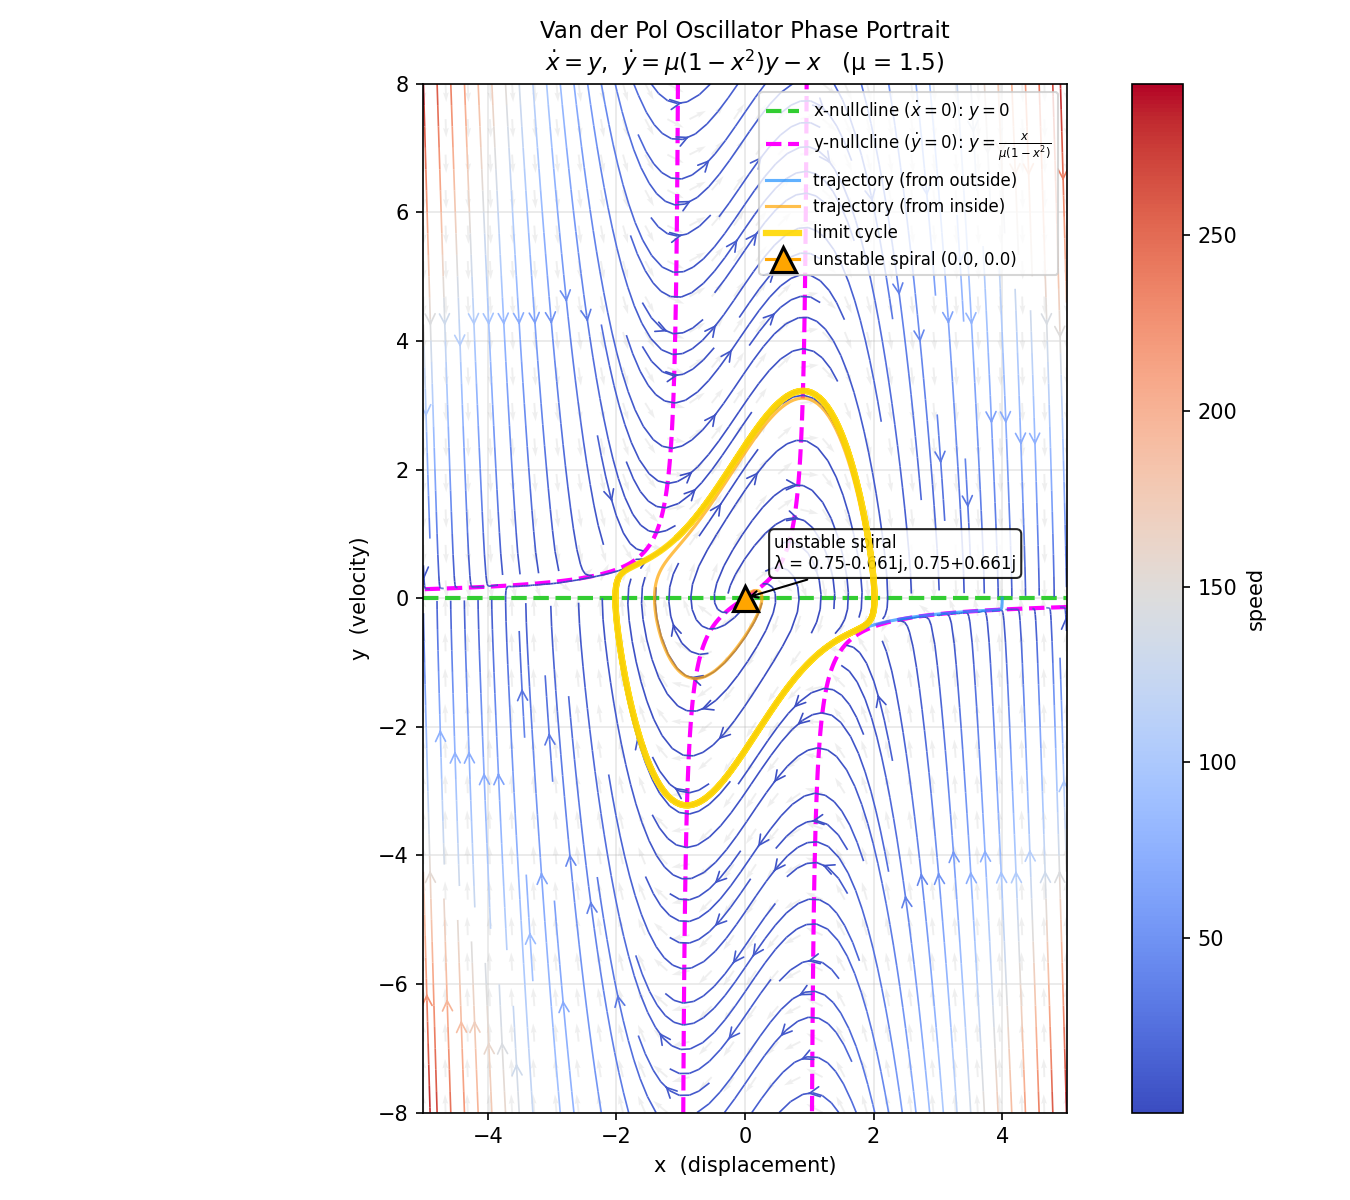
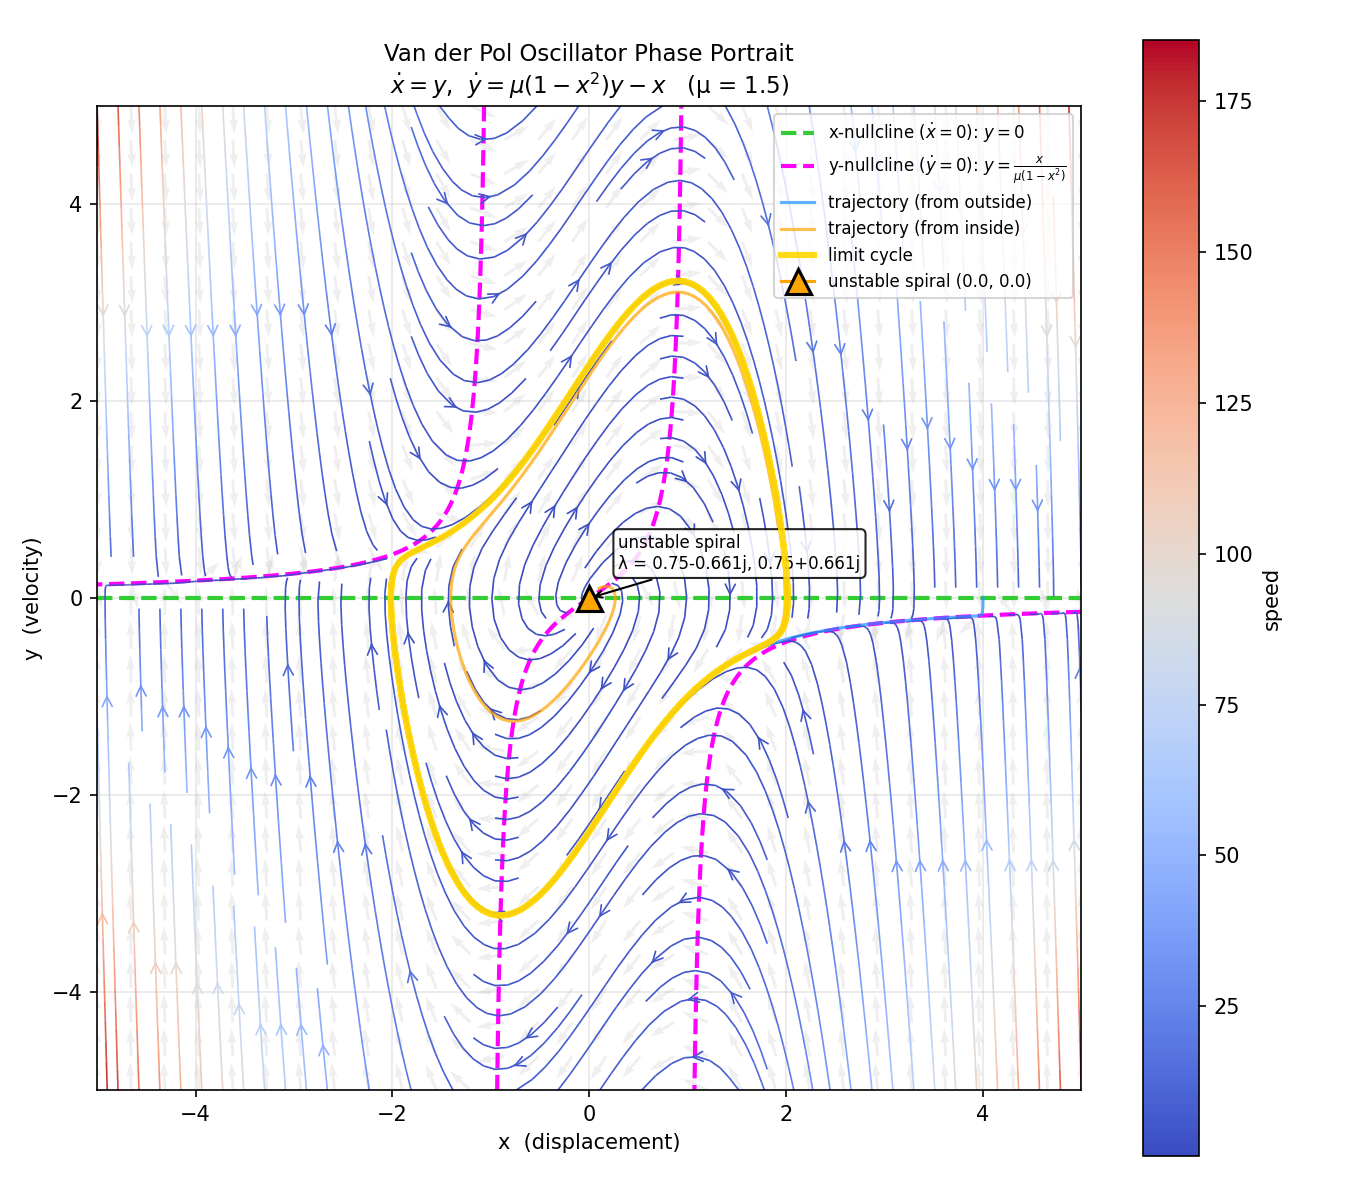
Make Van der Pol phase portrait square by matching x and y ranges

diff --git a/van_der_pol.py b/van_der_pol.py
@@ -37,7 +37,7 @@ for eq in equilibria:
     classifications[eq] = (cls, eigs)
 
 # ── Plot ──
-xlim, ylim = (-5, 5), (-8, 8)
+xlim, ylim = (-5, 5), (-5, 5)
 grid_n = 300
 qgrid = 30
 
